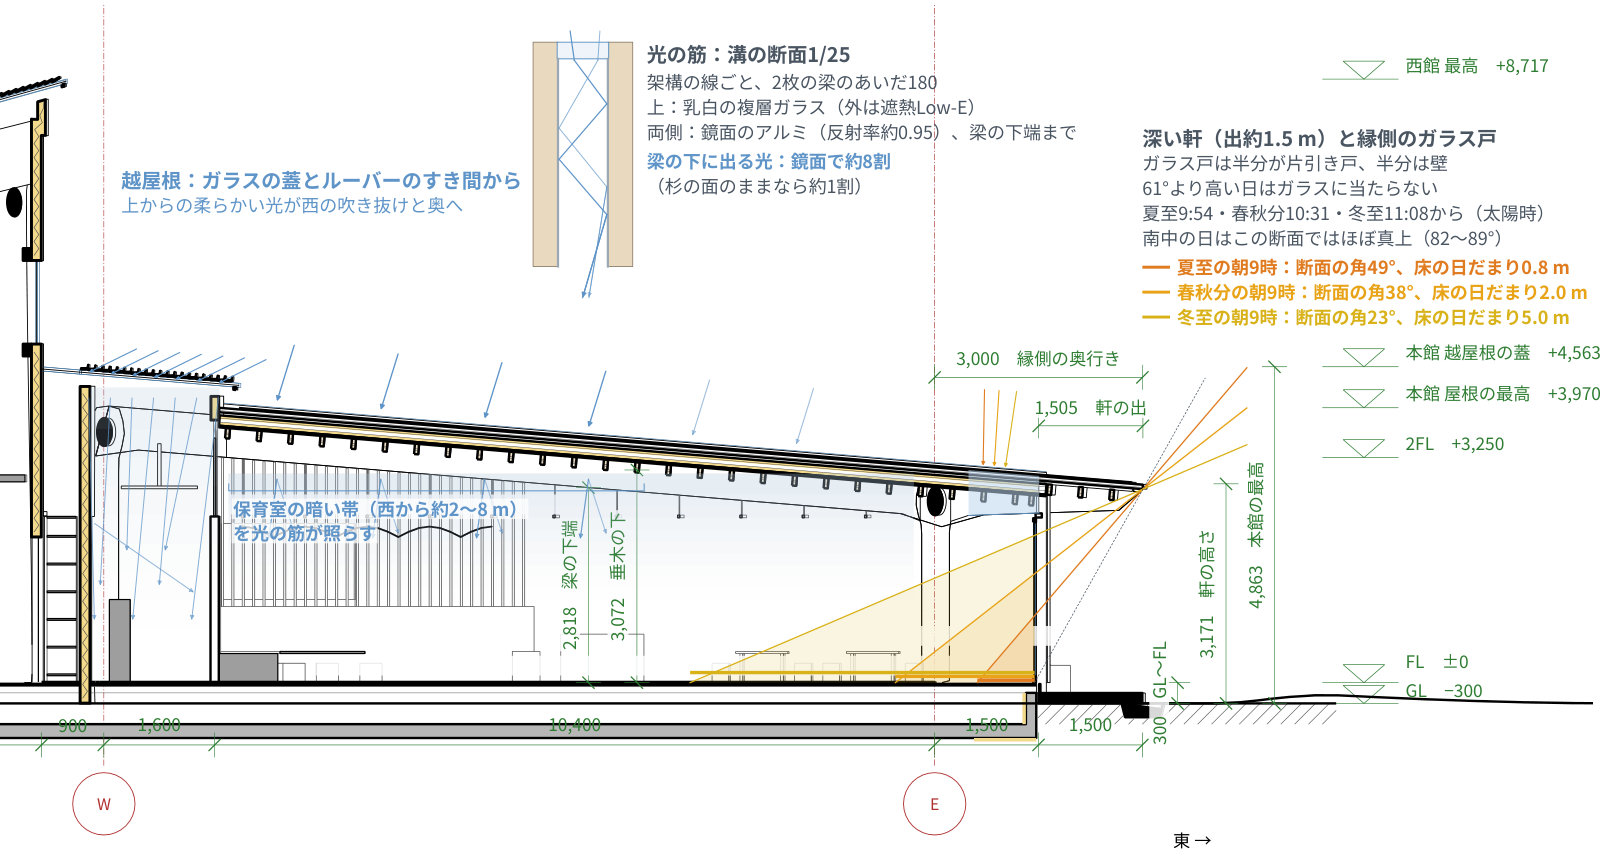
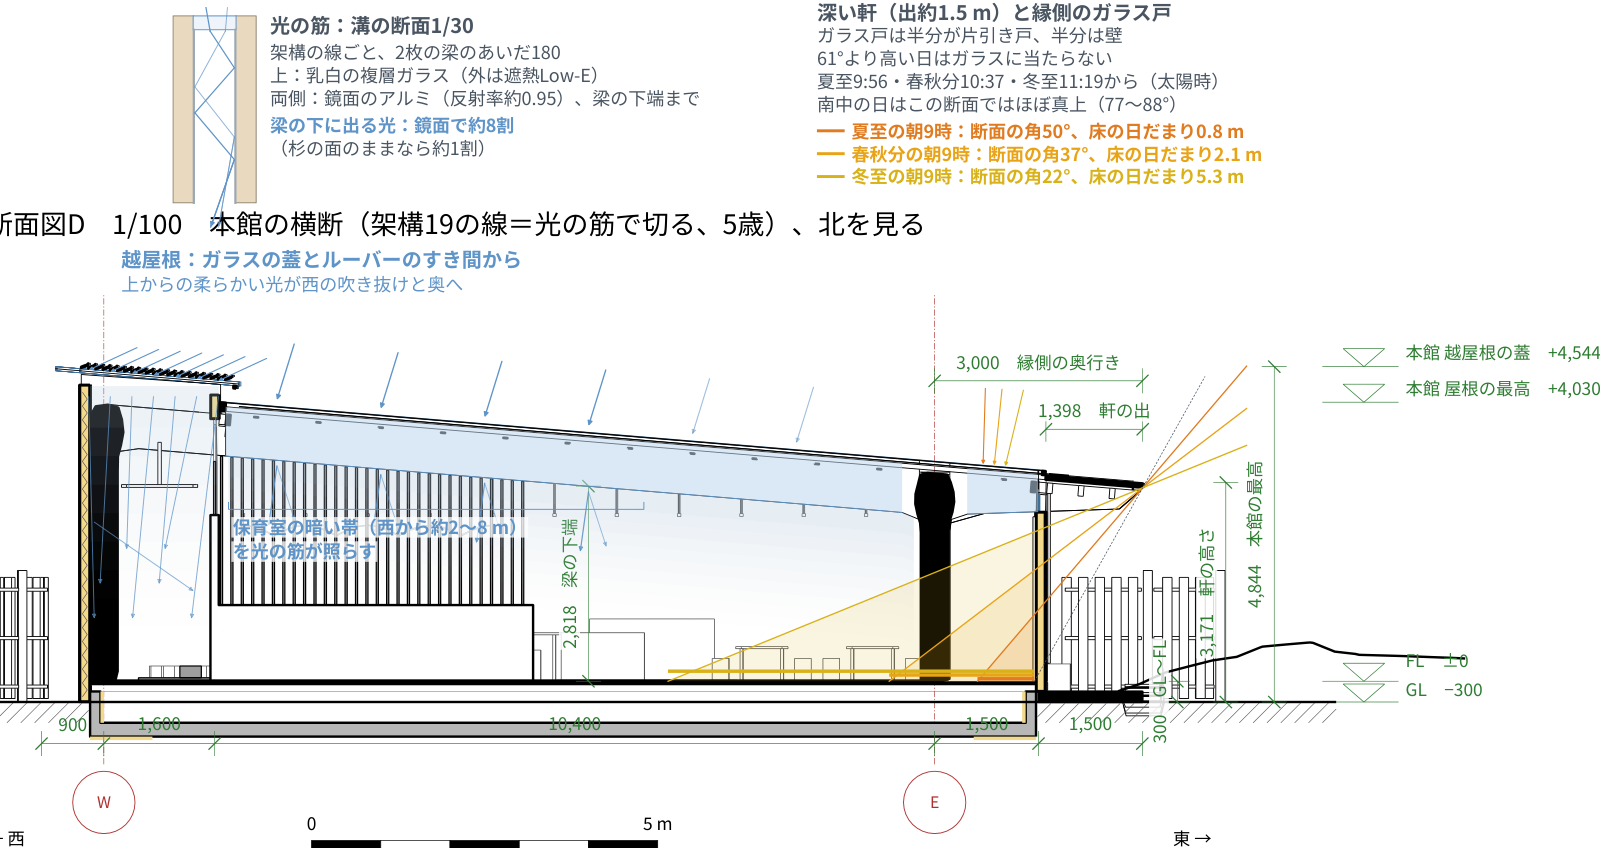
[プレゼン] 採光の図を断面Dに移した
Claude-Session: https://claude.ai/code/session_0151iA58mEPLix18p5ike5ir

diff --git a/sodachiya/present/tools/saikou.py b/sodachiya/present/tools/saikou.py
@@ -2,7 +2,7 @@
 
 描くもの（決定事項（共通）の「屋根・光・電気」「屋根の構成」、決定事項_本館の「屋根：光の筋と太陽光」「越屋根」）：
 - 光の筋：2枚の梁のあいだ180の上の乳白ガラスから入る空の光が、鏡面のアルミの溝を下りて梁の下へ（約8割、杉のままなら約1割）。
-  保育室の暗い帯（西から約2〜8 m）を明るくする。溝の向きの断面は小さな差し込みの図（1/25）で。
+  保育室の暗い帯（西から約2〜8 m）を明るくする。溝の向きの断面は小さな差し込みの図（断面Cは1/25、断面Dは1/30）で。
 - 越屋根（白の艶消しの木のルーバーのすき間＋ガラスの蓋）から、西の吹き抜けと奥へ落ちる上からの柔らかい光。
 - 東の縁側のガラス戸と深い軒：朝9時（太陽時）の日を、夏至・春秋分・冬至で。断面の面に映した高度（プロファイル角）で描く。
   南中の日はこの東西の断面ではほぼ真上（82〜89°）なので、軒と屋根が受ける。軒先とガラスの足を結ぶ角より高い日はガラスに当たらない。
@@ -166,6 +166,16 @@ def interp(poly, h):
     return float(np.interp(h, a[:, 0], a[:, 1]))
 
 
+# ---------------------------------------------------------------- 割付（ページの左上からの mm）
+# 越屋根の注 kosi、差し込み（溝の断面）inset と縮尺、東の注 east、行の間 lh。
+# 断面D：3枚目では図の範囲（clip_paper_mm）の上に 30 mm の余白（mock.py の AIR_D）。差し込みと東の注はその余白に、
+# 越屋根の注は断面Dの図の題の下に置く。
+LAYOUT = {
+    "断面C": dict(kosi=(17.5, 26.0), inset=(77.0, 4.0), inset_scale=25, east=(165.0, 20.0), lh=3.6),
+    "断面D": dict(kosi=(17.5, 37.5), inset=(25.0, 0.8), inset_scale=30, east=(118.0, 1.8), lh=3.3),
+}
+
+
 # ---------------------------------------------------------------- 描く
 def draw(paper, vname, out_pdf, out_json, out_png):
     vj = os.path.join(ROOT, "drawings", paper + "_views.json")
@@ -175,6 +185,7 @@ def draw(paper, vname, out_pdf, out_json, out_png):
     Y = lambda z: T["e"] * z + T["f"]
     G = geometry(view)
     right = view["right"]
+    LY = LAYOUT.get(vname, LAYOUT["断面D"])
 
     hW = G["west_in"]                                  # 西の外壁の内面
     hd, zd0, zd1 = G["door"]                           # ガラス戸
@@ -240,8 +251,9 @@ def draw(paper, vname, out_pdf, out_json, out_png):
         ax.add_patch(MPoly([P(hv0, lz0), P(hv1, lz0), P(hv1, lz0 - 600 - f * 3300), P(hv0, lz0 - 600 - f * 3300)],
                            closed=True, fc=SKY_F, ec="none", alpha=0.06 * (1 - f), zorder=1))
     arrow(P(hW + 60, 2300), P(hW + 1500, 1300), SKY, lw=0.4, a=0.7)         # 白い西の壁で返り、奥へ
-    txt(PAGE[0] + 17.5, PAGE[1] + 26.0, "越屋根：ガラスの蓋とルーバーのすき間から", 2.9, SKY, w="bold")
-    txt(PAGE[0] + 17.5, PAGE[1] + 29.6, "上からの柔らかい光が西の吹き抜けと奥へ", 2.6, SKY)
+    kx, ky = PAGE[0] + LY["kosi"][0], PAGE[1] + LY["kosi"][1]
+    txt(kx, ky, "越屋根：ガラスの蓋とルーバーのすき間から", 2.9, SKY, w="bold")
+    txt(kx, ky + 3.6, "上からの柔らかい光が西の吹き抜けと奥へ", 2.6, SKY)
 
     # ---- 東のガラス戸と深い軒：朝9時（太陽時）
     t9 = 9.0
@@ -278,27 +290,27 @@ def draw(paper, vname, out_pdf, out_json, out_png):
         arrow(P(nx + 1100 / tn, z0 + 1100), P(nx, z0), SUN[nm], lw=0.45, ms=3.0)
 
     # 注：東（屋根の上の余白）
-    ex, ey = PAGE[0] + 165.0, PAGE[1] + 20.0
+    ex, ey = PAGE[0] + LY["east"][0], PAGE[1] + LY["east"][1]
     L = [("深い軒（出約1.5 m）と縁側のガラス戸", 2.9, "bold"),
          ("ガラス戸は半分が片引き戸、半分は壁", 2.6, "normal"),
          (f"{cut:.0f}°より高い日はガラスに当たらない", 2.6, "normal"),
          (f"夏至{hm(tcut['夏至'])}・春秋分{hm(tcut['春秋分'])}・冬至{hm(tcut['冬至'])}から（太陽時）", 2.6, "normal"),
          (f"南中の日はこの断面ではほぼ真上（{min(t for _,_,t in noon):.0f}〜{max(t for _,_,t in noon):.0f}°）", 2.6, "normal")]
     for k, (s_, sz, w_) in enumerate(L):
-        txt(ex, ey + 3.6 * k, s_, sz, INK, w=w_)
+        txt(ex, ey + LY["lh"] * k, s_, sz, INK, w=w_)
     for k, (nm, dec, a, th, tn, top, reach) in enumerate(rays):      # 日の線の凡例（朝9時、太陽時）
-        yy = ey + 3.6 * (len(L) + k) + 0.6
+        yy = ey + LY["lh"] * (len(L) + k) + 0.6
         ax.plot([ex, ex + 4.0], [yy, yy], color=SUN[nm], lw=1.2, solid_capstyle="butt")
         txt(ex + 5.0, yy, f"{nm}の朝9時：断面の角{th:.0f}°、床の日だまり{reach / 1000:.1f} m", 2.6, SUN[nm], w="bold")
 
     # ---- 光の筋の溝の断面（差し込み、1/25）
-    S = 1 / 25 * 1.0                                  # 実寸 mm → 紙 mm
-    ix, iy = PAGE[0] + 77.0, PAGE[1] + 4.0           # 左上
+    S = 1 / LY["inset_scale"]                         # 実寸 mm → 紙 mm
+    ix, iy = PAGE[0] + LY["inset"][0], PAGE[1] + LY["inset"][1]   # 左上
     bw, gap, dep = 90, 180, 750
     ox = ix
     def R_(x0_, y0_, w_, h_, **k):
         ax.add_patch(plt.Rectangle((x0_, y0_), w_, h_, **k))
-    y_g = iy + 4.5                                     # ガラスの下端
+    y_g = iy + 3.5                                     # ガラスの下端
     for bx in (0, bw + gap):
         R_(ox + bx * S, y_g - 60 * S, bw * S, (dep + 60) * S, fc="#E9D9BF", ec="#7A6A55", lw=0.3, zorder=6)
     R_(ox + bw * S - 3 * S, y_g - 60 * S, (gap + 6) * S, 60 * S, fc="#EEF4FA", ec=SKY, lw=0.4, zorder=6)   # 乳白ガラス
@@ -306,21 +318,22 @@ def draw(paper, vname, out_pdf, out_json, out_png):
         ax.plot([xx, xx], [y_g, y_g + dep * S], color="#9AA7B4", lw=0.9, zorder=7)                   # 鏡面
     # 跳ね返りながら下りる光
     xL, xR = ox + bw * S + 0.15, ox + (bw + gap) * S - 0.15
-    pts = [(xL + 1.6, y_g - 4.0), (xL + 2.2, y_g + 0.2), (xR, y_g + 6.5), (xL, y_g + 14.5), (xR, y_g + 22.5), (xL + 3.4, y_g + dep * S + 4.5)]
+    Dp = dep * S
+    pts = [(xL + 1.6, y_g - 3.2), (xL + 2.2, y_g + 0.2), (xR, y_g + 0.22 * Dp), (xL, y_g + 0.48 * Dp), (xR, y_g + 0.75 * Dp), (xL + 0.4 * (xR - xL), y_g + Dp + 3.5)]
     for p, q in zip(pts[:-1], pts[1:]):
         ax.plot(*zip(p, q), color=SKY, lw=0.5, zorder=8)
     arrow(pts[-2], pts[-1], SKY, lw=0.5, z=8)
-    pts2 = [(xR - 1.0, y_g - 4.0), (xR - 1.3, y_g + 0.2), (xL, y_g + 10.0), (xR, y_g + 18.5), (xR - 2.6, y_g + dep * S + 4.5)]
+    pts2 = [(xR - 1.0, y_g - 3.2), (xR - 1.3, y_g + 0.2), (xL, y_g + 0.33 * Dp), (xR, y_g + 0.62 * Dp), (xR - 0.4 * (xR - xL), y_g + Dp + 3.5)]
     for p, q in zip(pts2[:-1], pts2[1:]):
         ax.plot(*zip(p, q), color=SKY, lw=0.4, alpha=0.7, zorder=8)
     arrow(pts2[-2], pts2[-1], SKY, lw=0.4, a=0.7, z=8)
     tx = ox + (2 * bw + gap) * S + 2.0
-    txt(tx, y_g - 0.5, "光の筋：溝の断面1/25", 2.9, INK, w="bold")
-    txt(tx, y_g + 3.4, "架構の線ごと、2枚の梁のあいだ180", 2.6, INK)
-    txt(tx, y_g + 7.0, "上：乳白の複層ガラス（外は遮熱Low-E）", 2.6, INK)
-    txt(tx, y_g + 10.6, "両側：鏡面のアルミ（反射率約0.95）、梁の下端まで", 2.6, INK)
-    txt(tx, y_g + 14.8, "梁の下に出る光：鏡面で約8割", 2.6, SKY, w="bold")
-    txt(tx, y_g + 18.4, "（杉の面のままなら約1割）", 2.6, INK)
+    txt(tx, y_g - 0.5, f"光の筋：溝の断面1/{LY['inset_scale']}", 2.9, INK, w="bold")
+    txt(tx, y_g + 1 * LY["lh"], "架構の線ごと、2枚の梁のあいだ180", 2.6, INK)
+    txt(tx, y_g + 2 * LY["lh"], "上：乳白の複層ガラス（外は遮熱Low-E）", 2.6, INK)
+    txt(tx, y_g + 3 * LY["lh"], "両側：鏡面のアルミ（反射率約0.95）、梁の下端まで", 2.6, INK)
+    txt(tx, y_g + 4 * LY["lh"] + 0.6, "梁の下に出る光：鏡面で約8割", 2.6, SKY, w="bold")
+    txt(tx, y_g + 5 * LY["lh"] + 0.6, "（杉の面のままなら約1割）", 2.6, INK)
 
     # ---- 保育室の暗い帯（西から約2〜8 m）を光の筋が照らす
     zb = interp(sof, 8000) - 250
@@ -398,8 +411,8 @@ def preview(base, ovl, PAGE, out_png, px=1600):
 
 if __name__ == "__main__":
     ap = argparse.ArgumentParser()
-    ap.add_argument("--paper", default="sodachiya_sections_1-100")
-    ap.add_argument("--view", default="断面C")
+    ap.add_argument("--paper", default="sodachiya_sections2_1-100")
+    ap.add_argument("--view", default="断面D")
     ap.add_argument("--name", default="17_光の環境_断面")
     a = ap.parse_args()
     S = os.path.join(ROOT, "present", "sozai"); O = os.path.join(ROOT, "present", "out")
